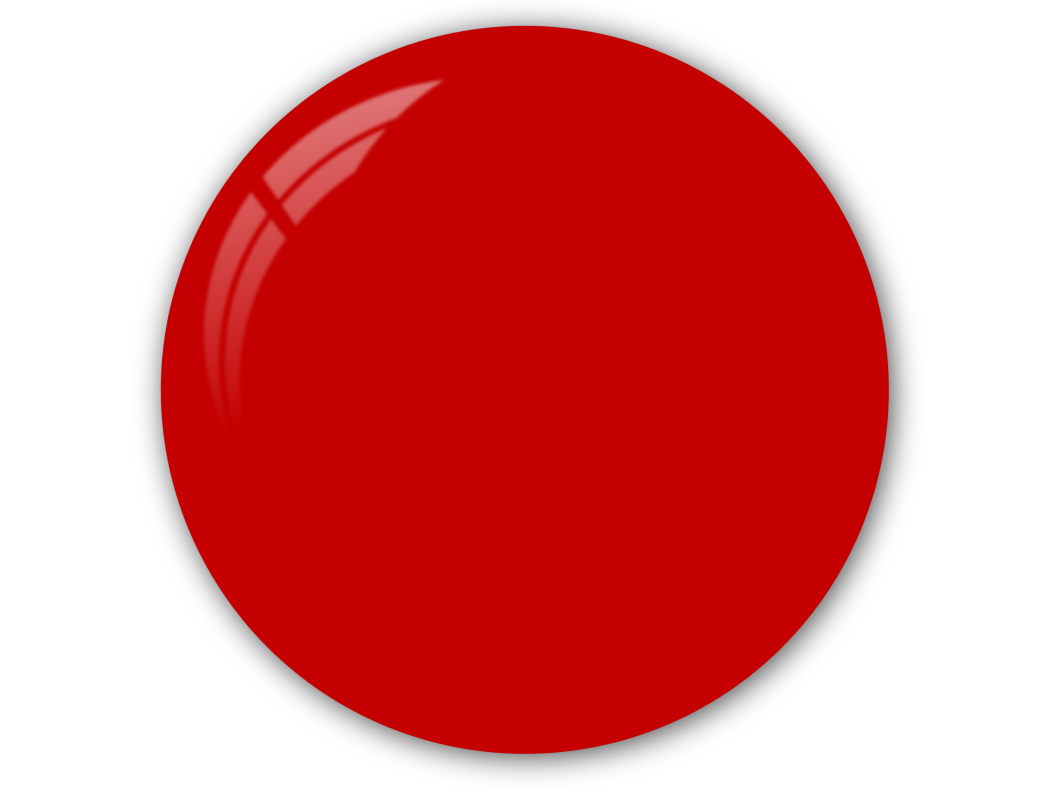
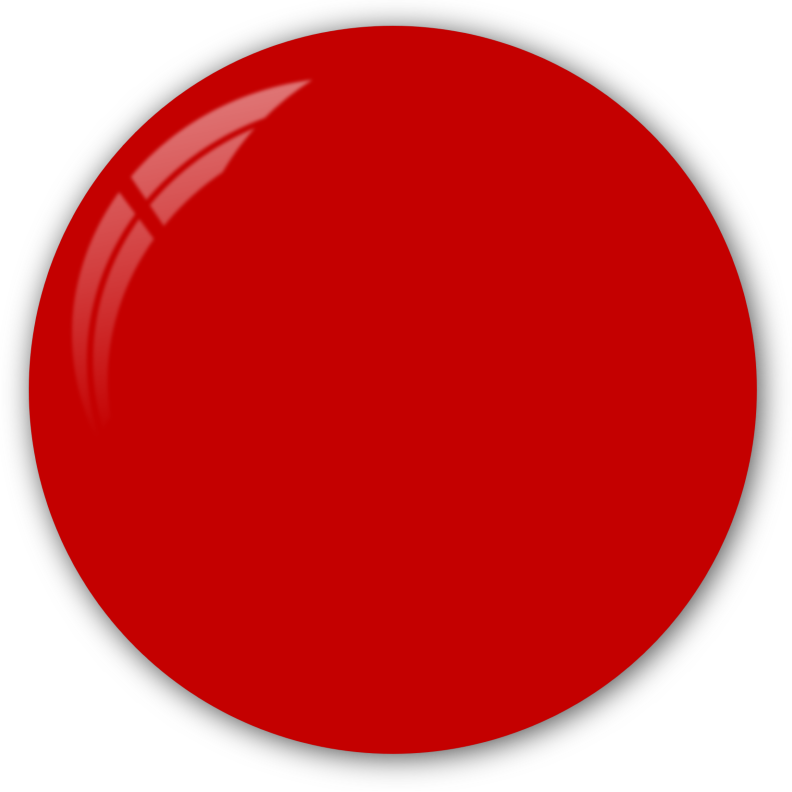
resized red png

Changed region(s): [[0.0, 0.0303, 0.4545, 0.9697], [0.5455, 0.0303, 1.0, 0.9697]]

diff --git a/src/components/sections/FeaturesSplit.js b/src/components/sections/FeaturesSplit.js
@@ -86,7 +86,7 @@ const FeaturesSplit = ({
                   <Image
                     src={require('./../../assets/images/red.png')}
                     alt="Features split 03"
-                    style={{height:396, margin:"auto"}} />
+                    style={{width:396, margin:"auto"}} />
                 </a>
               </div>
             </div>
